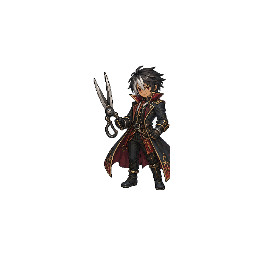
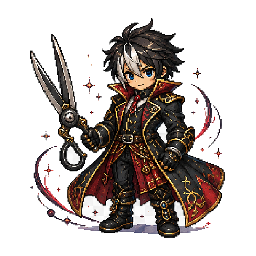
パーティー編成機能の実装前チェックポイント(統一スタイル画像・召喚結果の白残り修正・エフェクト表示修正を含む)

diff --git a/main.js b/main.js
@@ -1234,32 +1234,32 @@ CHARACTER_ROSTER.forEach(c => CHARACTER_POOL[c.rank].push(c));
 
 // 召喚結果の表示専用: 各portrait(256x256透過PNG)内で実際にキャラが描かれている範囲(bbox)。
 // 画像ファイル自体は加工せず、この座標を元にCSSのbackground-size/positionをキャラごとに計算し、
-// 透過余白の差(C:約33%〜SSS:約61%)を吸収して見た目の背丈を揃えるために使う。
+// 透過余白の差(Sランクのみ約56〜66%、他は約86%で統一)を吸収して見た目の背丈を揃えるために使う。
 const PORTRAIT_CANVAS_SIZE = 256;
 const PORTRAIT_BBOX = {
-    c_gail:       { x0: 93, y0: 77, x1: 169, y1: 174 },
-    c_roto:       { x0: 98, y0: 72, x1: 162, y1: 174 },
-    c_jin:        { x0: 90, y0: 73, x1: 163, y1: 174 },
-    c_popo:       { x0: 86, y0: 90, x1: 153, y1: 174 },
-    b_bardo:      { x0: 93, y0: 68, x1: 170, y1: 178 },
-    b_fiona:      { x0: 86, y0: 81, x1: 170, y1: 178 },
-    b_glen:       { x0: 86, y0: 77, x1: 170, y1: 178 },
-    b_lily:       { x0: 86, y0: 80, x1: 163, y1: 179 },
-    a_leon:       { x0: 93, y0: 65, x1: 170, y1: 190 },
-    a_elena:      { x0: 86, y0: 78, x1: 170, y1: 190 },
-    a_shion:      { x0: 86, y0: 64, x1: 170, y1: 191 },
-    a_valeria:    { x0: 86, y0: 47, x1: 163, y1: 191 },
-    s_kayen:      { x0: 88, y0: 43, x1: 170, y1: 196 },
-    s_mira:       { x0: 86, y0: 54, x1: 170, y1: 196 },
-    s_luna:       { x0: 86, y0: 72, x1: 170, y1: 196 },
-    s_zex:        { x0: 86, y0: 87, x1: 168, y1: 197 },
-    ss_asteria:   { x0: 90, y0: 56, x1: 170, y1: 196 },
-    ss_ignis:     { x0: 86, y0: 48, x1: 170, y1: 198 },
-    ss_morgana:   { x0: 86, y0: 55, x1: 170, y1: 196 },
-    ss_veil:      { x0: 86, y0: 81, x1: 162, y1: 197 },
-    sss_seraphy:  { x0: 78, y0: 41, x1: 184, y1: 189 },
-    sss_nocturne: { x0: 72, y0: 35, x1: 184, y1: 191 },
-    sss_eden:     { x0: 72, y0: 46, x1: 183, y1: 190 }
+    c_gail:       { x0: 39, y0: 18, x1: 217, y1: 238 },
+    c_roto:       { x0: 47, y0: 18, x1: 208, y1: 238 },
+    c_jin:        { x0: 46, y0: 18, x1: 209, y1: 238 },
+    c_popo:       { x0: 47, y0: 18, x1: 208, y1: 238 },
+    b_bardo:      { x0: 24, y0: 18, x1: 232, y1: 238 },
+    b_fiona:      { x0: 32, y0: 18, x1: 223, y1: 238 },
+    b_glen:       { x0: 32, y0: 18, x1: 223, y1: 238 },
+    b_lily:       { x0: 18, y0: 18, x1: 238, y1: 238 },
+    a_leon:       { x0: 30, y0: 18, x1: 225, y1: 238 },
+    a_elena:      { x0: 24, y0: 18, x1: 231, y1: 238 },
+    a_shion:      { x0: 29, y0: 18, x1: 227, y1: 238 },
+    a_valeria:    { x0: 26, y0: 18, x1: 230, y1: 238 },
+    s_kayen:      { x0: 43, y0: 46, x1: 215, y1: 208 },
+    s_mira:       { x0: 37, y0: 50, x1: 209, y1: 206 },
+    s_luna:       { x0: 66, y0: 55, x1: 222, y1: 196 },
+    s_zex:        { x0: 38, y0: 59, x1: 196, y1: 195 },
+    ss_asteria:   { x0: 34, y0: 18, x1: 222, y1: 238 },
+    ss_ignis:     { x0: 40, y0: 18, x1: 216, y1: 238 },
+    ss_morgana:   { x0: 38, y0: 18, x1: 217, y1: 238 },
+    ss_veil:      { x0: 34, y0: 18, x1: 221, y1: 238 },
+    sss_seraphy:  { x0: 48, y0: 18, x1: 207, y1: 238 },
+    sss_nocturne: { x0: 43, y0: 18, x1: 212, y1: 238 },
+    sss_eden:     { x0: 42, y0: 18, x1: 214, y1: 238 }
 };
 // 召喚結果ポートレートに、キャラごとのbboxを元にした background-size/position を適用する。
 // 画像は一切加工せず、CSSのcustom propertyだけを書き換えて表示上の背丈・足元位置を揃える。
@@ -1267,7 +1267,7 @@ function applyPortraitCrop(el, characterId) {
     const bbox = PORTRAIT_BBOX[characterId];
     if (!el || !bbox) return;
     const stage = el.closest('.summon-portrait-stage');
-    const cssTargetH = parseFloat(getComputedStyle(stage || document.documentElement).getPropertyValue('--portrait-target-h')) || 196;
+    const cssTargetH = parseFloat(getComputedStyle(stage || document.documentElement).getPropertyValue('--portrait-target-h')) || 240;
     // stage自身のoffsetHeightは、この時点でまだally本体のサイズが未確定のため信用できない
     // (flex:1がally挿入前の空の状態を基準に伸びてしまい、確定後のカード高さとズレて全身が
     // 枠外にはみ出すことがあった)。代わりに.summon-area(外側のflex列で高さが確定済み)から

diff --git a/style.css b/style.css
@@ -138,10 +138,10 @@ body { background-color: #0b0c10; color: #fff; font-family: 'DotGothic16', monos
 
 /* Shop / Gacha */
 /* 召喚結果キャラクターの表示高さの目安。画面幅に応じて自動調整する(画像自体は加工しない)。 */
-:root { --portrait-target-h: 196px; }
-@media (max-width: 850px) { :root { --portrait-target-h: 175px; } }
+:root { --portrait-target-h: 240px; }
+@media (max-width: 850px) { :root { --portrait-target-h: 190px; } }
 #shop-screen {
-  top: 4%; bottom: auto; width: 92%; height: 92%; padding: 12px 16px;
+  top: 1.5%; bottom: auto; width: 92%; height: 97%; padding: 12px 16px;
   display: flex; flex-direction: column; overflow: hidden; z-index: 80;
   background: #06101f; border-color: #e9d9a4;
   box-shadow: inset 0 0 0 4px #176c8c, 0 0 30px rgba(0,229,255,.55), 6px 6px 0 rgba(0,0,0,.8);
